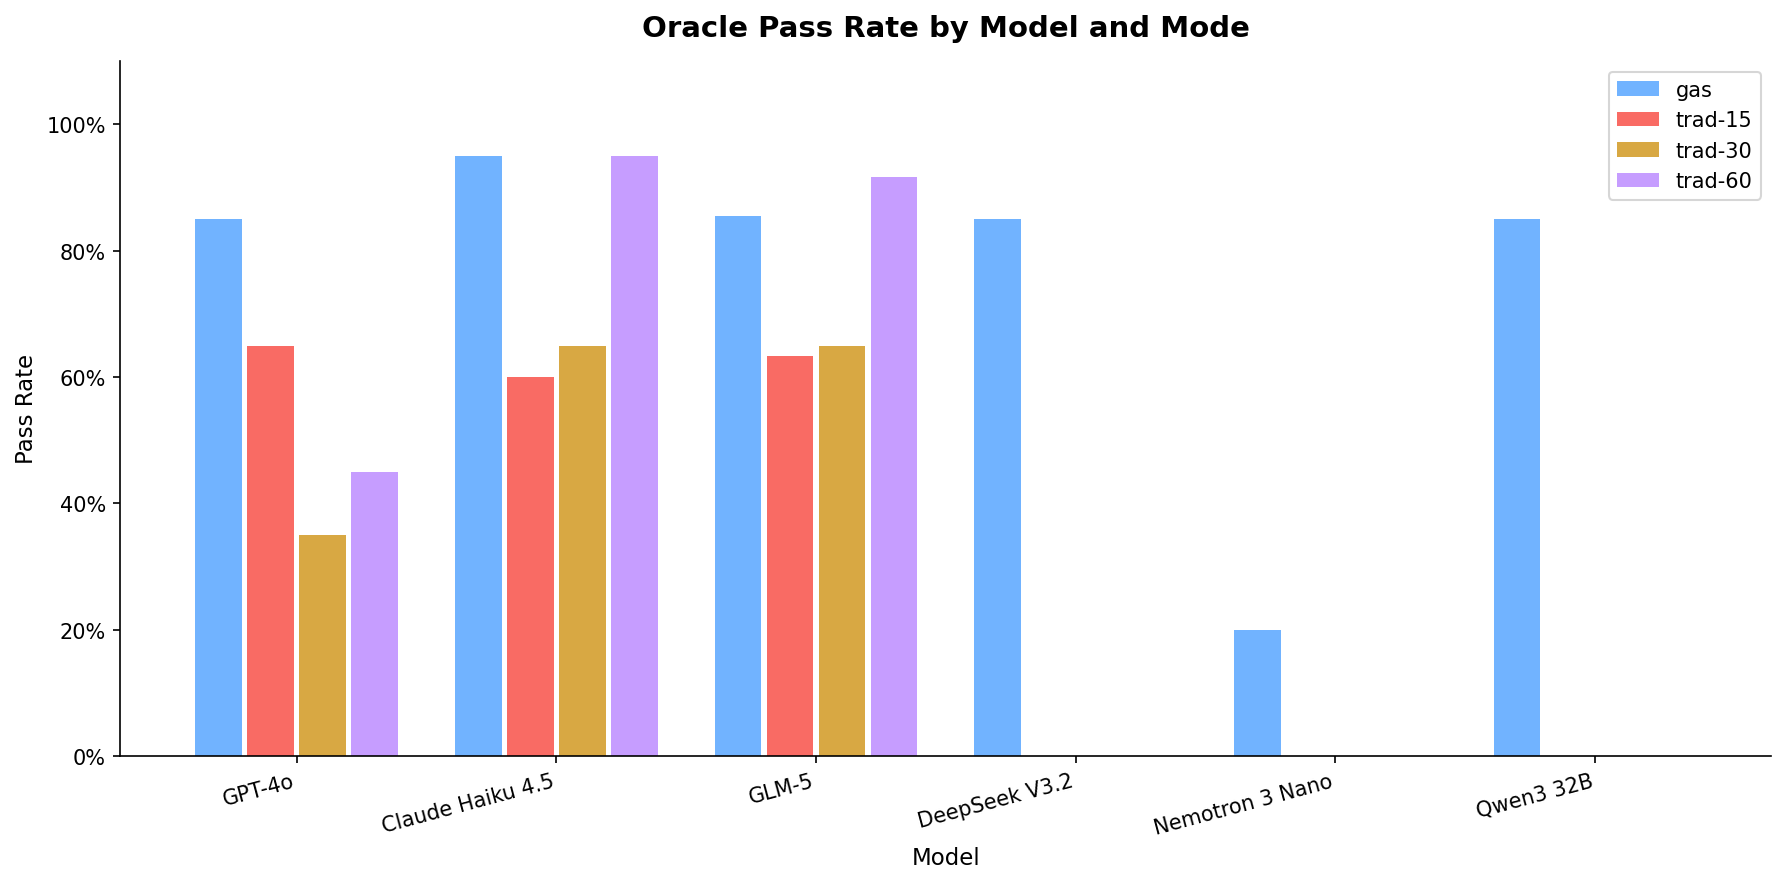
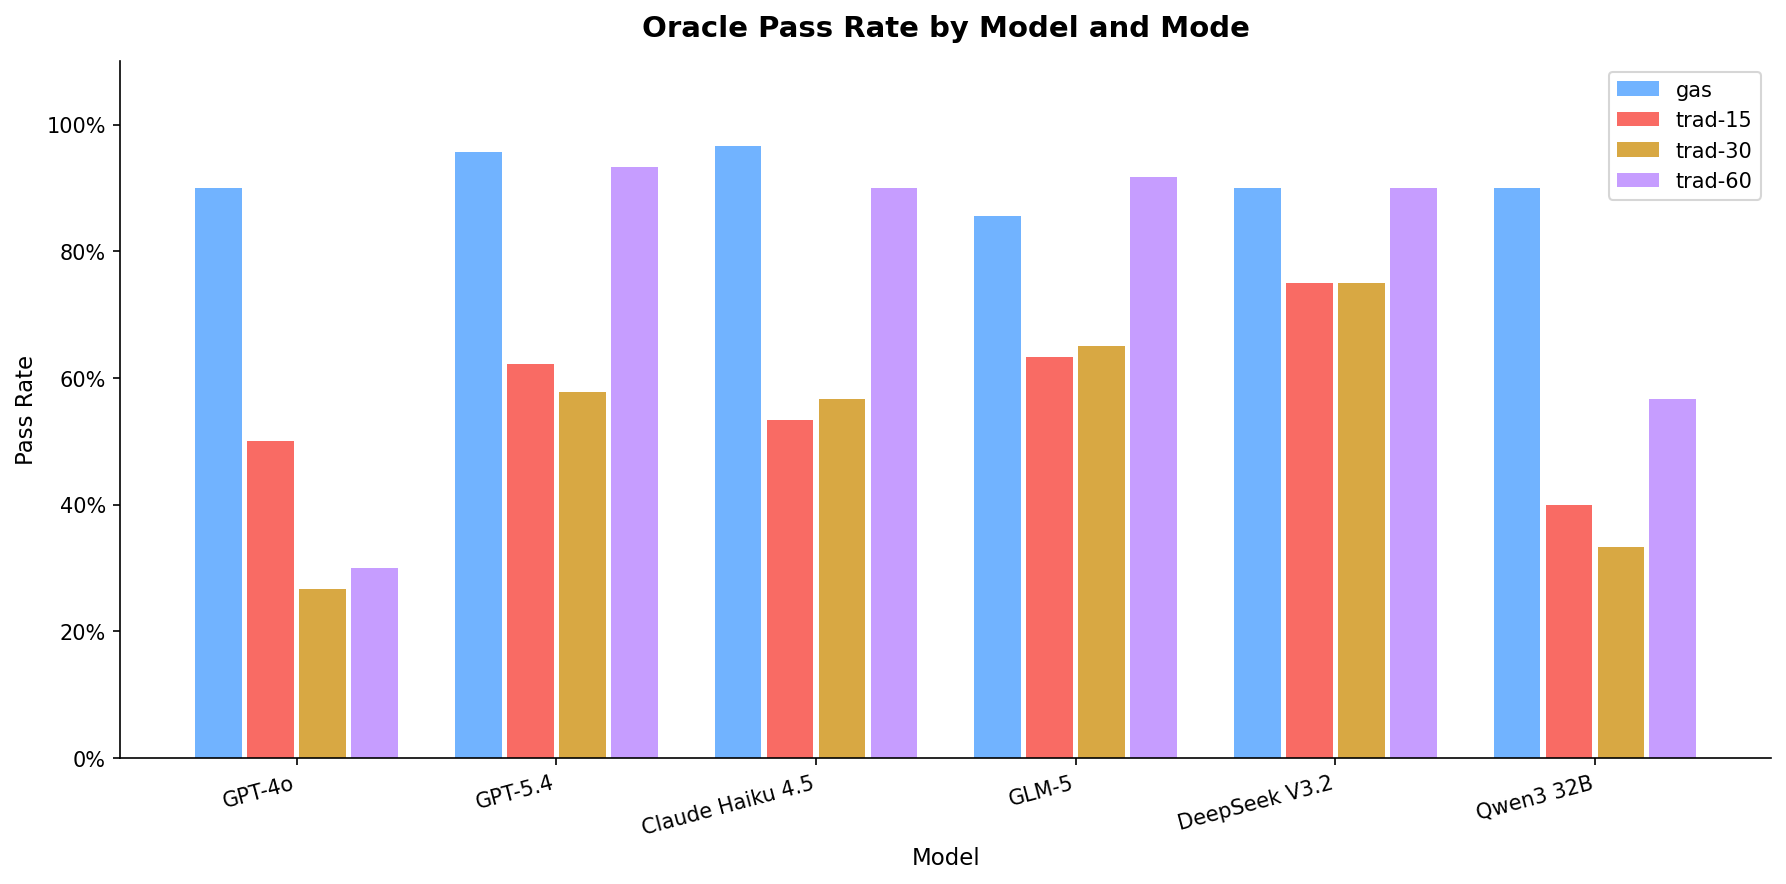
feat(eval): add T2 results, convergence analysis, 6-model catalog update
Add GPT-5.4 with legacy name mapping, remove Nemotron 3 Nano from
catalog. Regenerate all charts with complete T1-T4 data across 6 models
(1,092 runs). Key finding: GAS and trad-60 converge for strong models
but GAS eliminates the capability tax for weaker ones (GPT-4o +60pp,
Qwen3 +33pp) while using 2-2.4x fewer tokens even at parity.

diff --git a/eval/harness/providers.py b/eval/harness/providers.py
@@ -45,6 +45,16 @@ MODEL_CATALOG: list[ModelCatalogEntry] = [
         aliases=["gpt-4o"],
     ),
     ModelCatalogEntry(
+        name="GPT-5.4 (OpenAI)",
+        model_id=os.environ.get("OPENAI_MODEL_GPT_5_4", "gpt-5.4"),
+        label="GPT-5.4",
+        color="#6366f1",
+        provider="openai",
+        tier="frontier",
+        aliases=["gpt-5.4"],
+        legacy_names=["gpt-5.4"],
+    ),
+    ModelCatalogEntry(
         name="Claude Haiku 4.5 (Anthropic)",
         model_id=os.environ.get("ANTHROPIC_MODEL_HAIKU_4_5", "claude-haiku-4-5"),
         label="Claude Haiku 4.5",
@@ -70,14 +80,6 @@ MODEL_CATALOG: list[ModelCatalogEntry] = [
         color="#2563eb",
         provider="deepinfra",
         aliases=["deepseek-v3.2"],
-    ),
-    ModelCatalogEntry(
-        name="Nemotron 3 Nano 30B-A3B (DeepInfra)",
-        model_id=os.environ.get("DEEPINFRA_MODEL_NEMOTRON_3_NANO_30B_A3B", "nvidia/Nemotron-3-Nano-30B-A3B-Instruct"),
-        label="Nemotron 3 Nano",
-        color="#dc2626",
-        provider="deepinfra",
-        aliases=["nemotron-3-nano-30b-a3b"],
     ),
     ModelCatalogEntry(
         name="Qwen3 32B (DeepInfra)",
